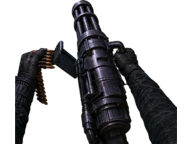
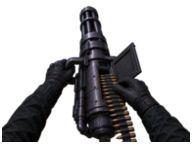
Corriger les recharges du fusil et du minigun

diff --git a/llm.md b/llm.md
@@ -268,6 +268,11 @@ d'implémentation et les décisions techniques non triviales.
     boutons de menu latéraux en parallélogramme avec contour au survol et
     écran de mort verrouillé 3 s avec titre gothique sanglant. Quatre
     non-régressions supplémentaires portent la suite à 81 tests.
+31. Correction visuelle des huit poses de recharge du fusil à pompe et du
+    minigun : anatomie gauche/droite cohérente pour le chargement des
+    cartouches, et chaîne mécanique explicite ouverture du capot → engagement
+    de la bande → calage → fermeture pour le minigun. Dimensions, alpha,
+    keyframes, timings et cache HUD restent inchangés.
 
 ## Dette / manques à connaître
 
@@ -379,6 +384,17 @@ branche de travail `agent/reload-animations-level-music`.
   Les douze nouvelles poses intermédiaires couvrent main d'appui, extraction,
   insertion, cartouche/pompe et bande d'alimentation. Tous les fichiers restent
   en `192x144`, avec alpha et coins transparents.
+- Les quatre poses du fusil à pompe gardent strictement la main droite sur la
+  poignée arrière et font venir la main gauche depuis la gauche de l'écran :
+  relâchement de la pompe, présentation d'une cartouche rouge, insertion dans
+  le port inférieur puis reprise de la pompe. Il ne doit jamais y avoir deux
+  mains droites, deux cartouches ou une cartouche introduite par la fenêtre
+  d'éjection.
+- Les quatre poses du minigun montrent désormais un mécanisme continu :
+  ouverture du capot d'alimentation latéral droit et plateau vide, présentation
+  de la bande depuis la droite, cartouches calées dans le plateau, puis capot
+  refermé avec bande engagée. La main gauche stabilise toujours la poignée
+  arrière gauche ; la main droite manipule le capot et la bande.
 - `Weapon.reload_progress` expose une progression bornée `[0, 1]` uniquement
   pendant la recharge. `hud.reload_frames()` parcourt six points de passage
   (repos inclus aux deux extrémités), soit cinq transitions mécaniques ;
@@ -944,7 +960,10 @@ menus, coop loopback UDP réel hôte↔client, réglages, sons).
 - **Recharges** : `RELOAD_KEYFRAMES` garde les six points de passage repos →
   `_reload_1` → `_reload_2` → `_reload` → `_reload_3` → repos. Les PNG sont
   `192x144` transparents ; tout asset manquant doit continuer à replier vers
-  `_reload`, puis la pose normale, sans création par frame.
+  `_reload`, puis la pose normale, sans création par frame. Le fusil garde une
+  main droite arrière et une main gauche pour charger par le dessous ; le
+  minigun garde l'ordre capot ouvert → bande présentée → bande calée → capot
+  fermé.
 - **Cristaux lunaires** (`MAP_MOON`, `k`/`prop_alien_crystal`) : bloquent
   déplacement/pathfinding par la case ET balles/perception par un cercle rayon
   0,46 — `PROP_CHARS`, `cover_circles`, ligne de vue et hitscan doivent rester
